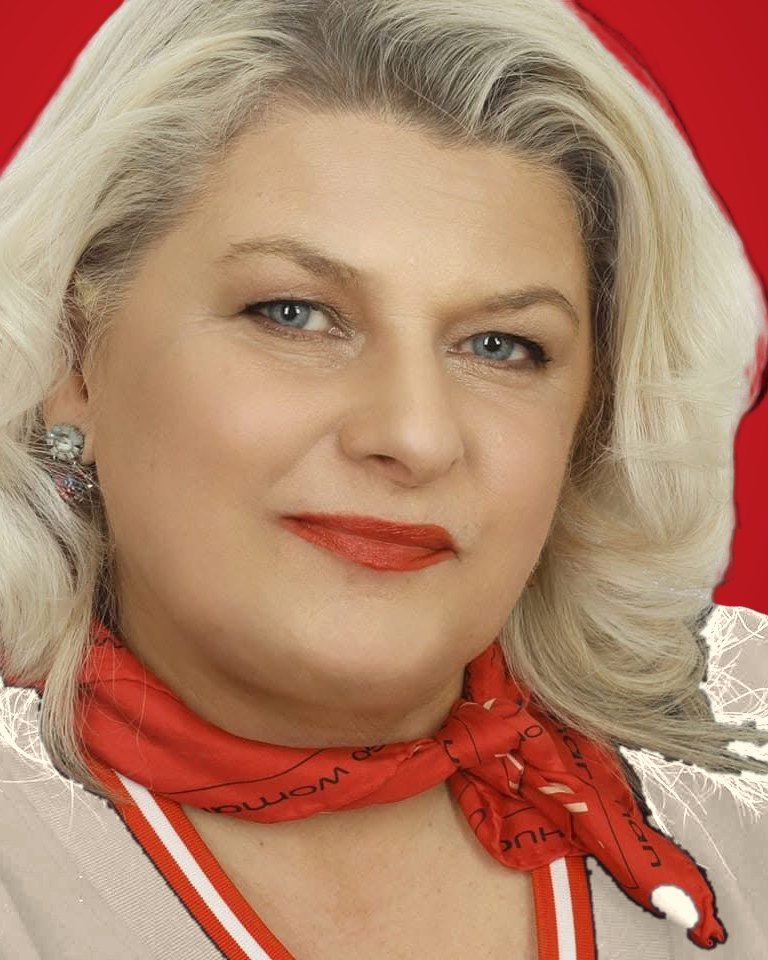
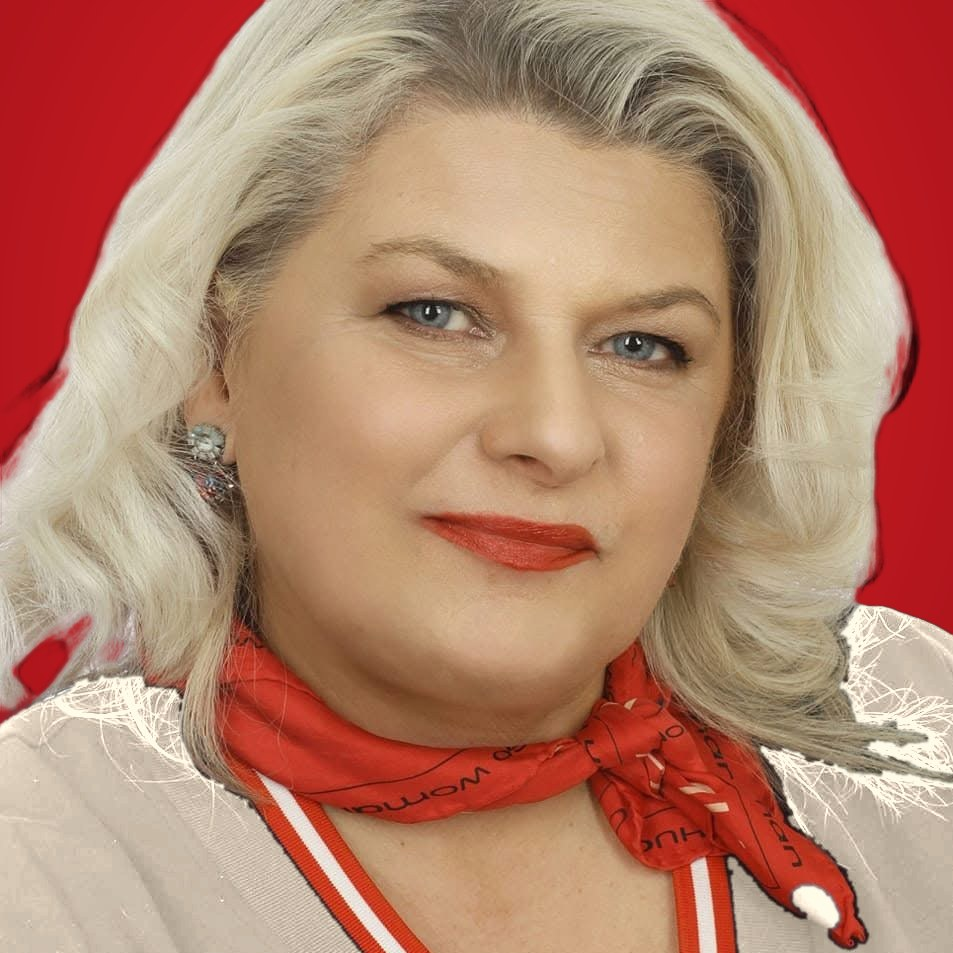
Team: square frames, Urszula zoomed out to full photo
Claude-Session: https://claude.ai/code/session_01TFe7T9GAZdAJhXa4UkGFGh

diff --git a/index.html b/index.html
@@ -291,7 +291,7 @@ body::before { content: ""; position: fixed; inset: 0 0 auto; height: env(safe-a
 .team h2 { font-size: var(--t-h3); margin-bottom: 36px; }
 .team-grid { display: grid; grid-template-columns: repeat(auto-fill, minmax(min(100%, 280px), 1fr)); gap: 32px; max-width: 760px; }
 .person { display: grid; gap: 10px; align-content: start; }
-.person-photo { aspect-ratio: 4 / 5; border-radius: 6px; overflow: hidden; display: grid; place-items: center; }
+.person-photo { aspect-ratio: 1; border-radius: 6px; overflow: hidden; display: grid; place-items: center; }
 .person-photo img { width: 100%; height: 100%; object-fit: cover; object-position: 50% 20%; }
 .person-photo span { font: 400 clamp(3rem, 2.4rem + 2vw, 4.4rem)/1 var(--f-display); font-style: italic; color: var(--peach); }
 .person-photo--bordo { background: var(--bordo); }
@@ -833,12 +833,12 @@ body::before { content: ""; position: fixed; inset: 0 0 auto; height: env(safe-a
       <h2>Zespół <em>Global Women</em></h2>
       <div class="team-grid">
         <article class="person">
-          <div class="person-photo"><img src="assets/urszula-brzozowska.jpg" alt="Urszula Brzozowska" width="768" height="960" loading="lazy"></div>
+          <div class="person-photo"><img src="assets/urszula-brzozowska.jpg" alt="Urszula Brzozowska" width="953" height="953" loading="lazy"></div>
           <h3>Urszula Brzozowska</h3>
           <p>Dyrektorka generalna magazynu gospodarczego Business Women IMPACT</p>
         </article>
         <article class="person">
-          <div class="person-photo"><img src="assets/judyta-niewiadomska-roein.jpg" alt="Judyta Niewiadomska-Roein" width="680" height="850" loading="lazy"></div>
+          <div class="person-photo"><img src="assets/judyta-niewiadomska-roein.jpg" alt="Judyta Niewiadomska-Roein" width="800" height="800" loading="lazy"></div>
           <h3>Judyta Niewiadomska-Roein</h3>
           <p>Dyrektorka</p>
         </article>
